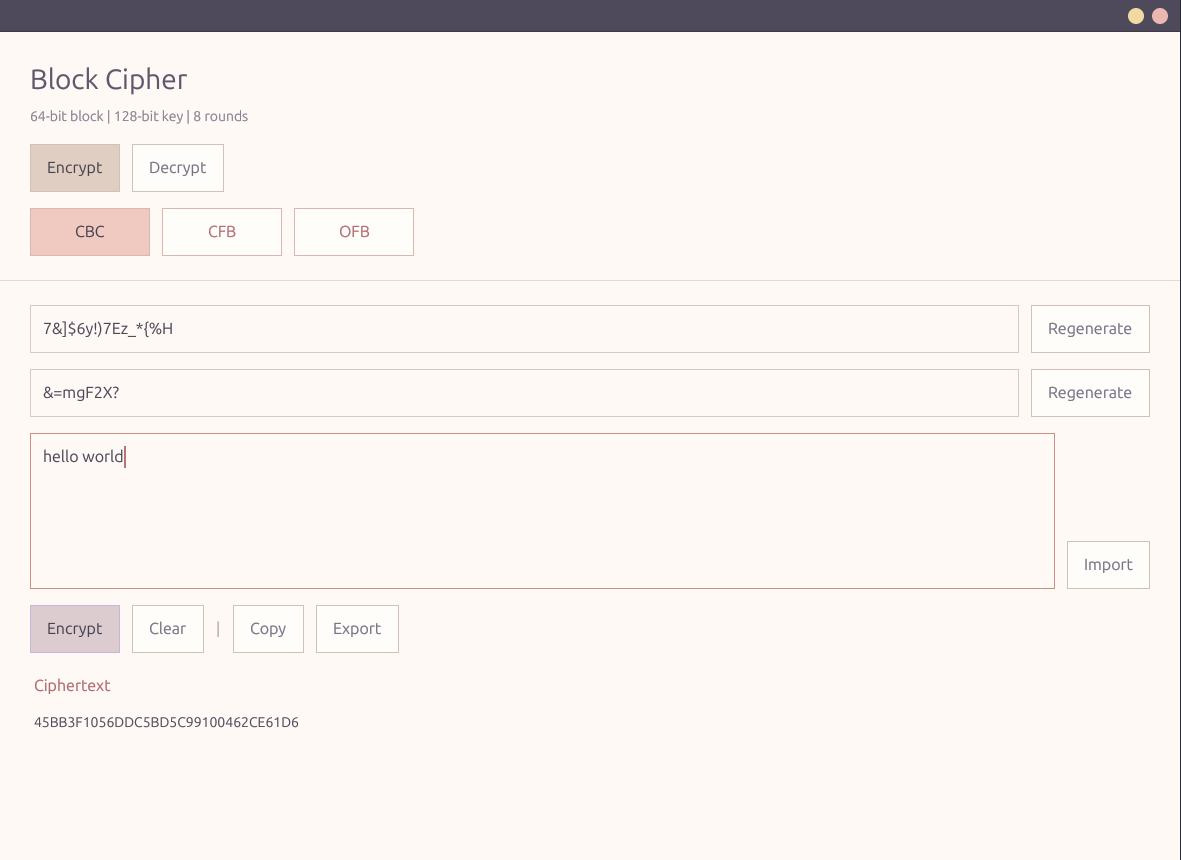
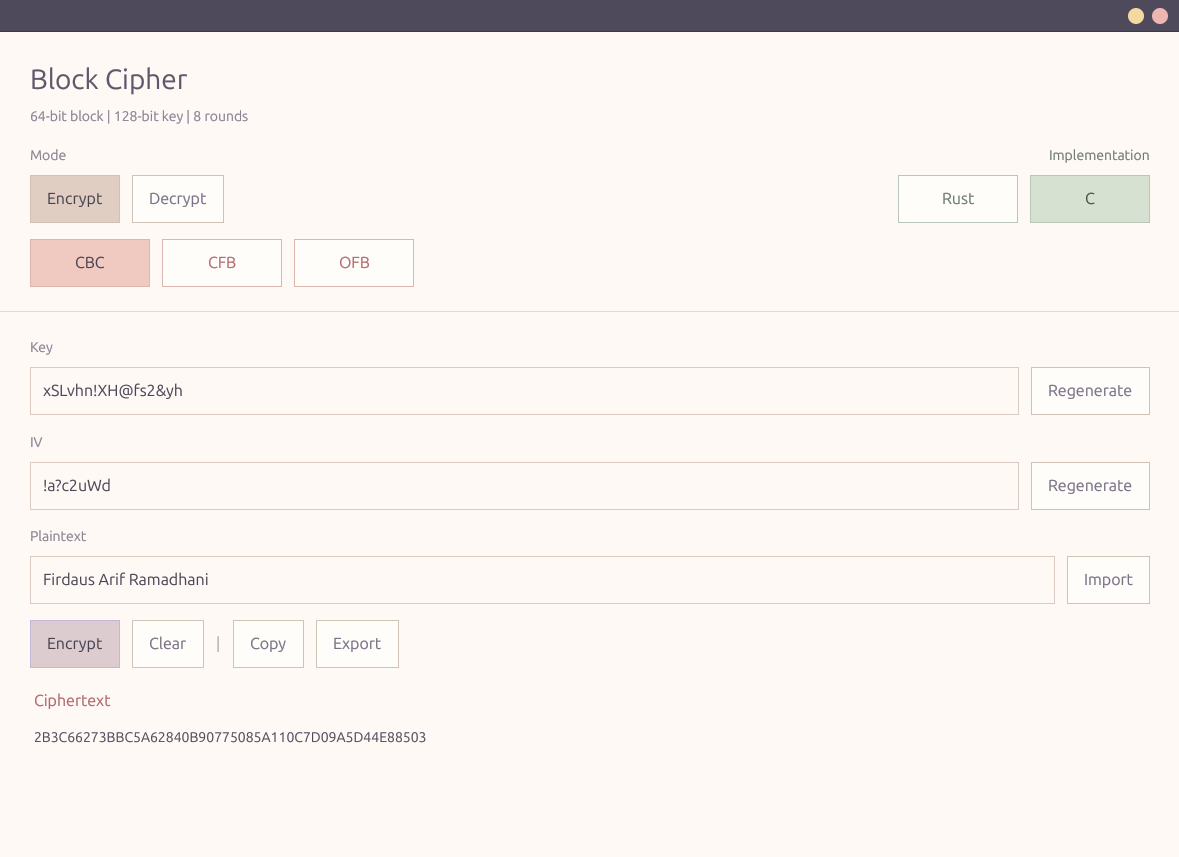
feat(gui): refine multiline inputs and defaults
Why: the form layout needed clearer labels and the default content should match the current demo text.
What: add field labels, improve multiline field sizing, and refresh the GUI screenshot asset.

diff --git a/src/gpui_app/app.rs b/src/gpui_app/app.rs
@@ -111,7 +111,9 @@ impl BlockCipherApp {
 
         encrypt_key.update(cx, |input, cx| input.set_value("", cx));
         encrypt_iv.update(cx, |input, cx| input.set_value("", cx));
-        encrypt_plaintext.update(cx, |input, cx| input.set_value("hello", cx));
+        encrypt_plaintext.update(cx, |input, cx| {
+            input.set_value("Firdaus Arif Ramadhani", cx)
+        });
         decrypt_key.update(cx, |input, cx| input.set_value("", cx));
         decrypt_iv.update(cx, |input, cx| input.set_value("", cx));
 
@@ -522,6 +524,14 @@ impl BlockCipherApp {
             .on_click(cx.listener(move |view, _: &ClickEvent, _, cx| view.set_engine(engine, cx)))
     }
 
+    fn render_field_label(&self, label: &'static str) -> Div {
+        div()
+            .text_sm()
+            .font_weight(gpui::FontWeight::SEMIBOLD)
+            .text_color(rgb(0x8B8293))
+            .child(label)
+    }
+
     fn render_result_card(
         &self,
         title: &str,
@@ -640,55 +650,79 @@ impl BlockCipherApp {
             .child(
                 div()
                     .flex()
-                    .items_end()
-                    .gap_3()
+                    .flex_col()
+                    .gap_2()
                     .w_full()
-                    .child(div().flex_1().child(self.encrypt_key.clone()))
+                    .child(self.render_field_label("Key"))
                     .child(
-                        action_button(
-                            encrypt_key_button_label,
-                            rgb(0xFFFDF9).into(),
-                            rgb(0x7B7287).into(),
-                            rgb(0xD1C2B7).into(),
-                        )
-                        .id("encrypt-generate-key")
-                        .on_click(cx.listener(Self::generate_encrypt_key)),
+                        div()
+                            .flex()
+                            .items_end()
+                            .gap_3()
+                            .w_full()
+                            .child(div().flex_1().child(self.encrypt_key.clone()))
+                            .child(
+                                action_button(
+                                    encrypt_key_button_label,
+                                    rgb(0xFFFDF9).into(),
+                                    rgb(0x7B7287).into(),
+                                    rgb(0xD1C2B7).into(),
+                                )
+                                .id("encrypt-generate-key")
+                                .on_click(cx.listener(Self::generate_encrypt_key)),
+                            ),
                     ),
             )
             .child(
                 div()
                     .flex()
-                    .items_end()
-                    .gap_3()
+                    .flex_col()
+                    .gap_2()
                     .w_full()
-                    .child(div().flex_1().child(self.encrypt_iv.clone()))
+                    .child(self.render_field_label("IV"))
                     .child(
-                        action_button(
-                            encrypt_iv_button_label,
-                            rgb(0xFFFDF9).into(),
-                            rgb(0x7B7287).into(),
-                            rgb(0xD1C2B7).into(),
-                        )
-                        .id("encrypt-generate-iv")
-                        .on_click(cx.listener(Self::generate_encrypt_iv)),
+                        div()
+                            .flex()
+                            .items_end()
+                            .gap_3()
+                            .w_full()
+                            .child(div().flex_1().child(self.encrypt_iv.clone()))
+                            .child(
+                                action_button(
+                                    encrypt_iv_button_label,
+                                    rgb(0xFFFDF9).into(),
+                                    rgb(0x7B7287).into(),
+                                    rgb(0xD1C2B7).into(),
+                                )
+                                .id("encrypt-generate-iv")
+                                .on_click(cx.listener(Self::generate_encrypt_iv)),
+                            ),
                     ),
             )
             .child(
                 div()
                     .flex()
-                    .items_end()
-                    .gap_3()
+                    .flex_col()
+                    .gap_2()
                     .w_full()
-                    .child(div().flex_1().child(self.encrypt_plaintext.clone()))
+                    .child(self.render_field_label("Plaintext"))
                     .child(
-                        action_button(
-                            "Import",
-                            rgb(0xFFFDF9).into(),
-                            rgb(0x7B7287).into(),
-                            rgb(0xD1C2B7).into(),
-                        )
-                        .id("encrypt-import")
-                        .on_click(cx.listener(Self::import_plaintext)),
+                        div()
+                            .flex()
+                            .items_end()
+                            .gap_3()
+                            .w_full()
+                            .child(div().flex_1().child(self.encrypt_plaintext.clone()))
+                            .child(
+                                action_button(
+                                    "Import",
+                                    rgb(0xFFFDF9).into(),
+                                    rgb(0x7B7287).into(),
+                                    rgb(0xD1C2B7).into(),
+                                )
+                                .id("encrypt-import")
+                                .on_click(cx.listener(Self::import_plaintext)),
+                            ),
                     ),
             )
             .child(
@@ -785,40 +819,64 @@ impl BlockCipherApp {
             .child(
                 div()
                     .flex()
-                    .items_end()
-                    .gap_3()
+                    .flex_col()
+                    .gap_2()
                     .w_full()
-                    .child(div().flex_1().child(self.decrypt_key.clone()))
+                    .child(self.render_field_label("Key"))
                     .child(
-                        action_button(
-                            decrypt_key_button_label,
-                            rgb(0xFFFDF9).into(),
-                            rgb(0x7B7287).into(),
-                            rgb(0xD1C2B7).into(),
-                        )
-                        .id("decrypt-generate-key")
-                        .on_click(cx.listener(Self::generate_decrypt_key)),
+                        div()
+                            .flex()
+                            .items_end()
+                            .gap_3()
+                            .w_full()
+                            .child(div().flex_1().child(self.decrypt_key.clone()))
+                            .child(
+                                action_button(
+                                    decrypt_key_button_label,
+                                    rgb(0xFFFDF9).into(),
+                                    rgb(0x7B7287).into(),
+                                    rgb(0xD1C2B7).into(),
+                                )
+                                .id("decrypt-generate-key")
+                                .on_click(cx.listener(Self::generate_decrypt_key)),
+                            ),
                     ),
             )
             .child(
                 div()
                     .flex()
-                    .items_end()
-                    .gap_3()
+                    .flex_col()
+                    .gap_2()
                     .w_full()
-                    .child(div().flex_1().child(self.decrypt_iv.clone()))
+                    .child(self.render_field_label("IV"))
                     .child(
-                        action_button(
-                            decrypt_iv_button_label,
-                            rgb(0xFFFDF9).into(),
-                            rgb(0x7B7287).into(),
-                            rgb(0xD1C2B7).into(),
-                        )
-                        .id("decrypt-generate-iv")
-                        .on_click(cx.listener(Self::generate_decrypt_iv)),
+                        div()
+                            .flex()
+                            .items_end()
+                            .gap_3()
+                            .w_full()
+                            .child(div().flex_1().child(self.decrypt_iv.clone()))
+                            .child(
+                                action_button(
+                                    decrypt_iv_button_label,
+                                    rgb(0xFFFDF9).into(),
+                                    rgb(0x7B7287).into(),
+                                    rgb(0xD1C2B7).into(),
+                                )
+                                .id("decrypt-generate-iv")
+                                .on_click(cx.listener(Self::generate_decrypt_iv)),
+                            ),
                     ),
             )
-            .child(self.decrypt_ciphertext.clone())
+            .child(
+                div()
+                    .flex()
+                    .flex_col()
+                    .gap_2()
+                    .w_full()
+                    .child(self.render_field_label("Ciphertext"))
+                    .child(self.decrypt_ciphertext.clone()),
+            )
             .child(
                 div()
                     .flex()

diff --git a/src/gpui_app.rs b/src/gpui_app.rs
@@ -66,8 +66,8 @@ const CONTROL_HEIGHT: f32 = 48.0;
 const TEXT_LINE_HEIGHT: f32 = 22.0;
 const TEXTAREA_VISIBLE_LINES: usize = 6;
 const TEXTAREA_VERTICAL_PADDING: f32 = 12.0;
-const TEXTAREA_MAX_HEIGHT: f32 =
-    TEXT_LINE_HEIGHT * TEXTAREA_VISIBLE_LINES as f32 + (TEXTAREA_VERTICAL_PADDING * 2.0);
+const TEXTAREA_MAX_CONTENT_HEIGHT: f32 = TEXT_LINE_HEIGHT * TEXTAREA_VISIBLE_LINES as f32;
+const TEXTAREA_MAX_HEIGHT: f32 = TEXTAREA_MAX_CONTENT_HEIGHT + (TEXTAREA_VERTICAL_PADDING * 2.0);
 const RESULT_VIEW_HEIGHT: f32 = 160.0;
 
 #[derive(Clone, Copy, PartialEq, Eq)]
@@ -227,7 +227,9 @@ impl TextInput {
 
     fn field_height(&self) -> Pixels {
         if self.is_multiline() {
-            px(TEXTAREA_MAX_HEIGHT)
+            let content_height = self.content_height.max(px(TEXT_LINE_HEIGHT));
+            let padded_height = content_height + px(TEXTAREA_VERTICAL_PADDING * 2.0);
+            padded_height.clamp(px(CONTROL_HEIGHT), px(TEXTAREA_MAX_HEIGHT))
         } else {
             px(CONTROL_HEIGHT)
         }
